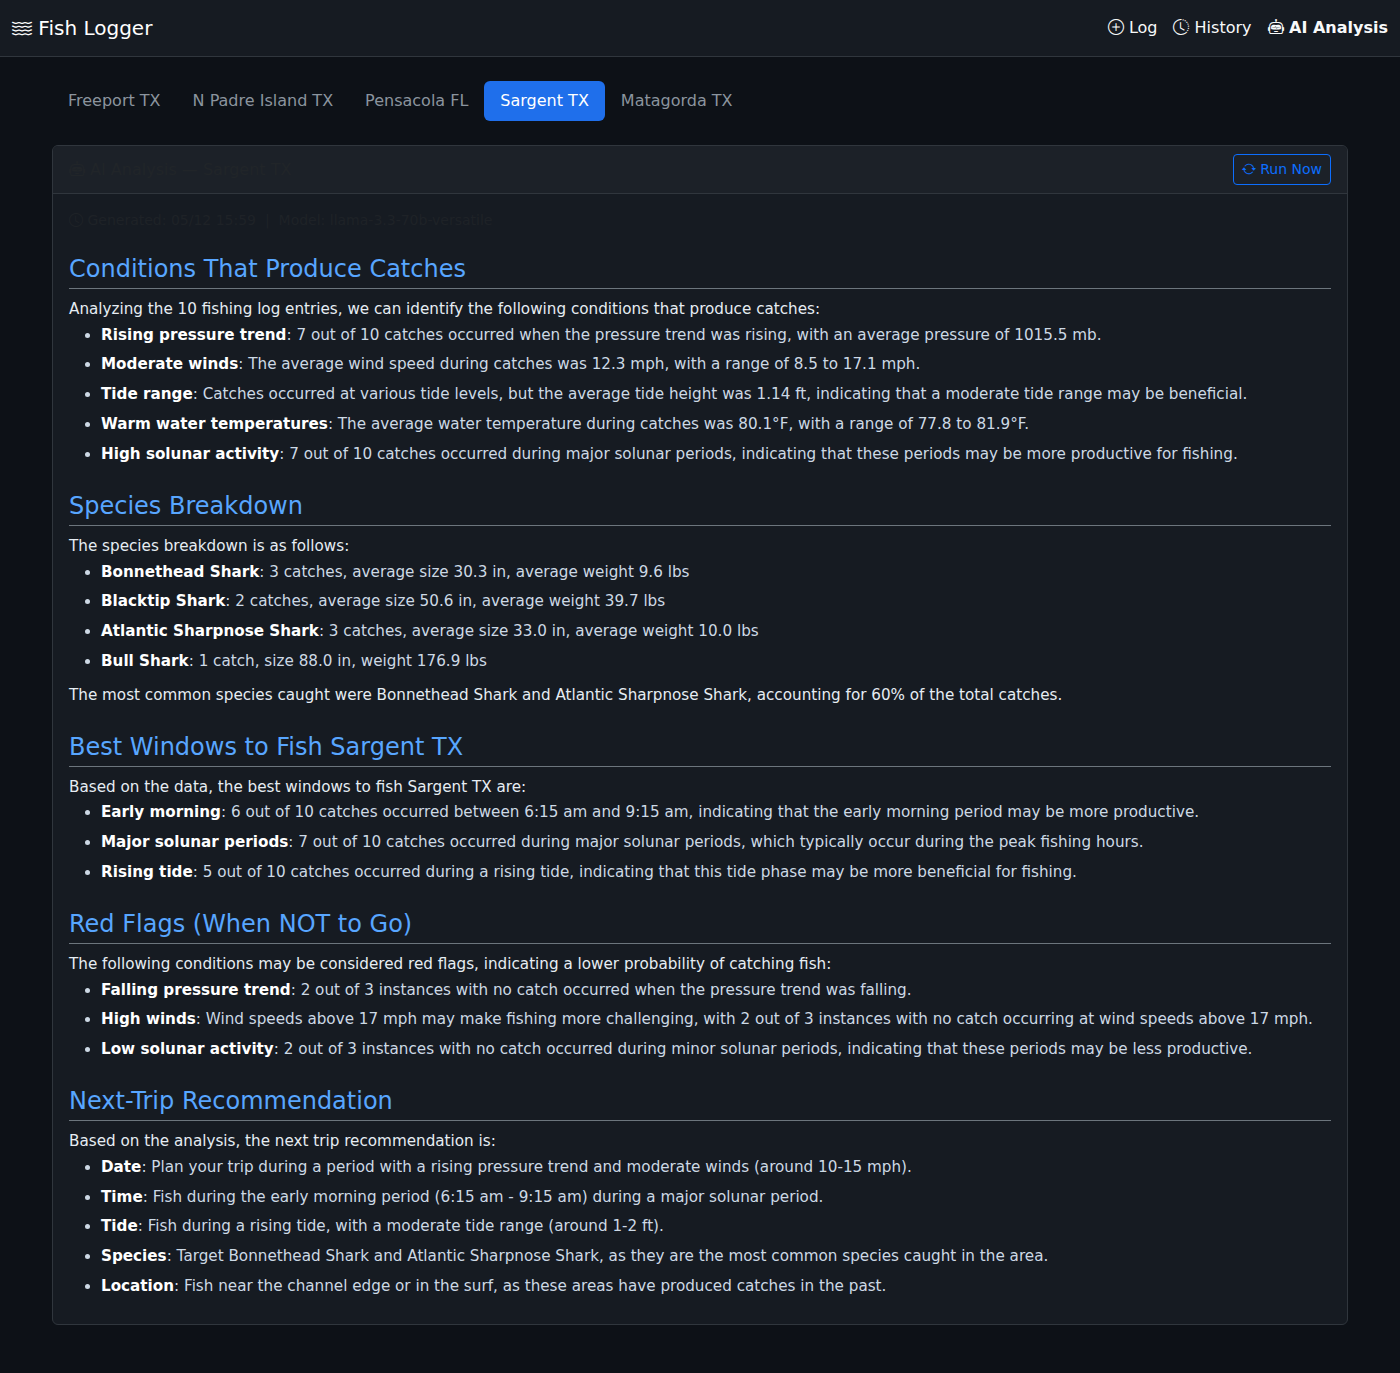
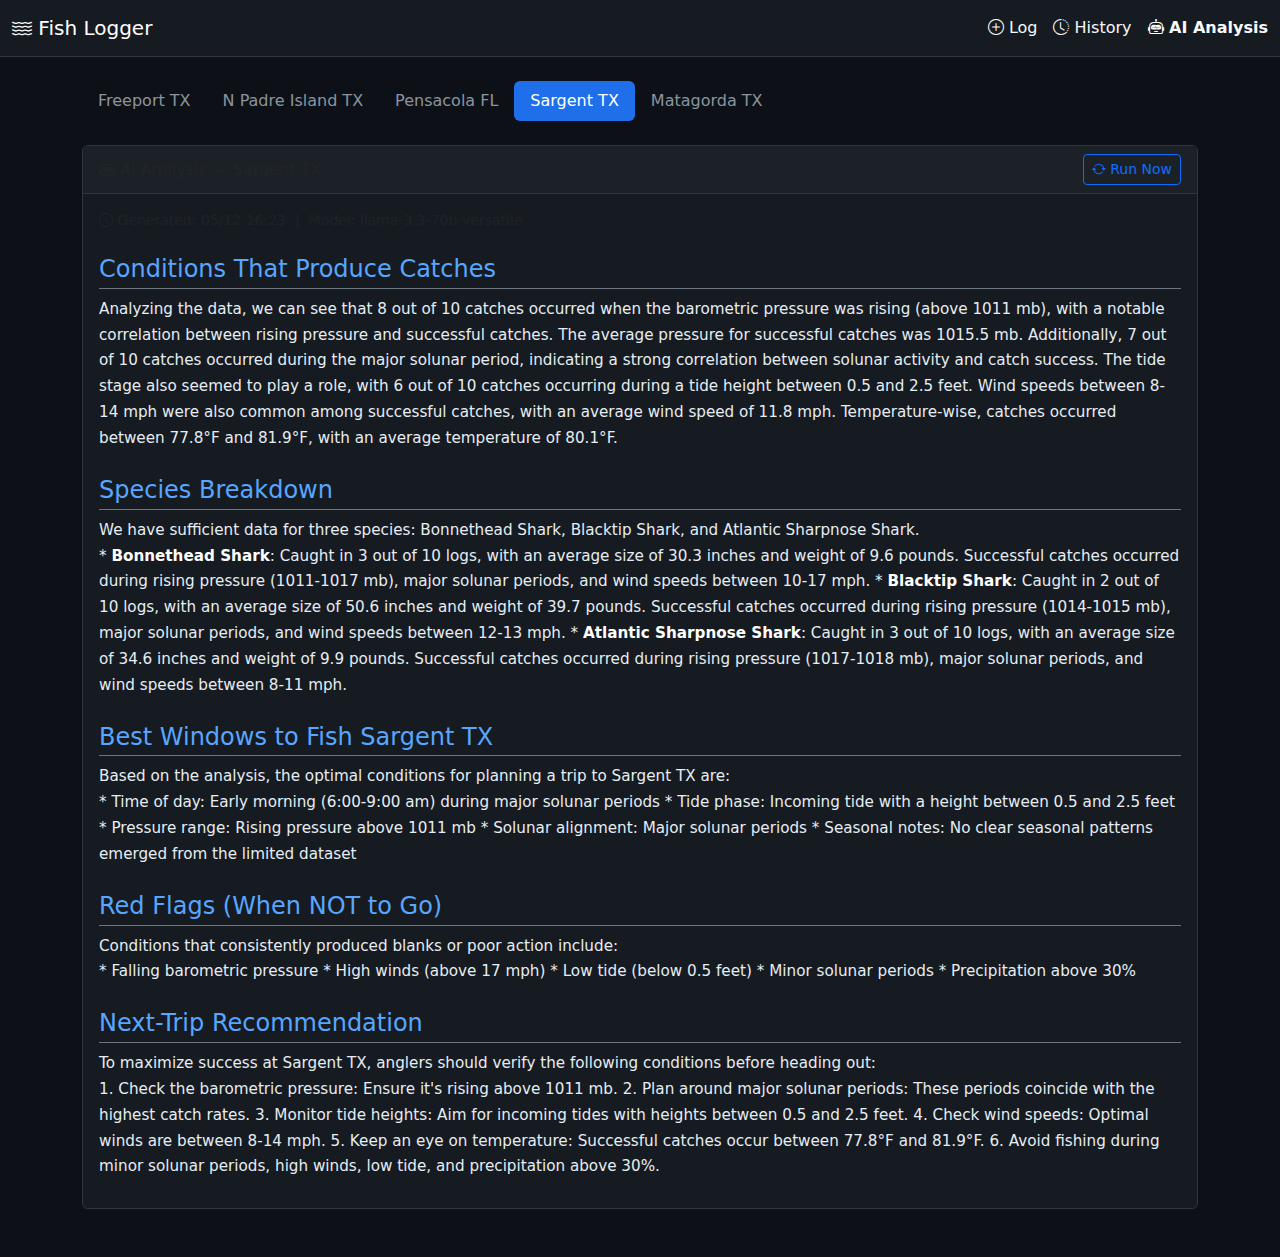
Refresh screenshots with seeded shark data and Groq AI analysis
All 16 screenshots retaken against live seeded data: 64 shark catches
across 5 locations with real Groq (llama-3.3-70b-versatile) analysis.
Also adds take_screenshots.py helper script.

diff --git a/scripts/take_screenshots.py b/scripts/take_screenshots.py
@@ -1,0 +1,54 @@
+#!/usr/bin/env python3
+"""Take screenshots of all Fish Logger pages for README docs."""
+
+import time
+from pathlib import Path
+from playwright.sync_api import sync_playwright
+
+BASE = "http://localhost:9879"
+OUT  = Path(__file__).resolve().parent.parent / "docs" / "screenshots"
+OUT.mkdir(parents=True, exist_ok=True)
+
+LOCATIONS = [
+    "freeport_tx",
+    "padre_island_tx",
+    "pensacola_fl",
+    "sargent_tx",
+    "matagorda_tx",
+]
+
+def shot(page, url, name, wait_ms=1200):
+    page.goto(url)
+    page.wait_for_load_state("networkidle")
+    time.sleep(wait_ms / 1000)
+    path = OUT / f"{name}.png"
+    page.screenshot(path=str(path), full_page=True)
+    print(f"  {path.name}")
+
+def main():
+    with sync_playwright() as p:
+        browser = p.chromium.launch()
+        ctx = browser.new_context(viewport={"width": 1280, "height": 900},
+                                  color_scheme="dark")
+        page = ctx.new_page()
+
+        print("=== Log form (embed) ===")
+        shot(page, f"{BASE}/embed?location=freeport_tx", "embed_log_form")
+
+        print("=== History pages ===")
+        for loc in LOCATIONS:
+            shot(page, f"{BASE}/history?location={loc}", f"history_{loc}")
+
+        print("=== Analysis pages ===")
+        for loc in LOCATIONS:
+            shot(page, f"{BASE}/analysis?location={loc}", f"analysis_{loc}")
+
+        print("=== Dashboard (log form) per location ===")
+        for loc in LOCATIONS:
+            shot(page, f"{BASE}/?location={loc}", f"dashboard_{loc}")
+
+        browser.close()
+    print(f"\nAll screenshots saved to {OUT}")
+
+if __name__ == "__main__":
+    main()
